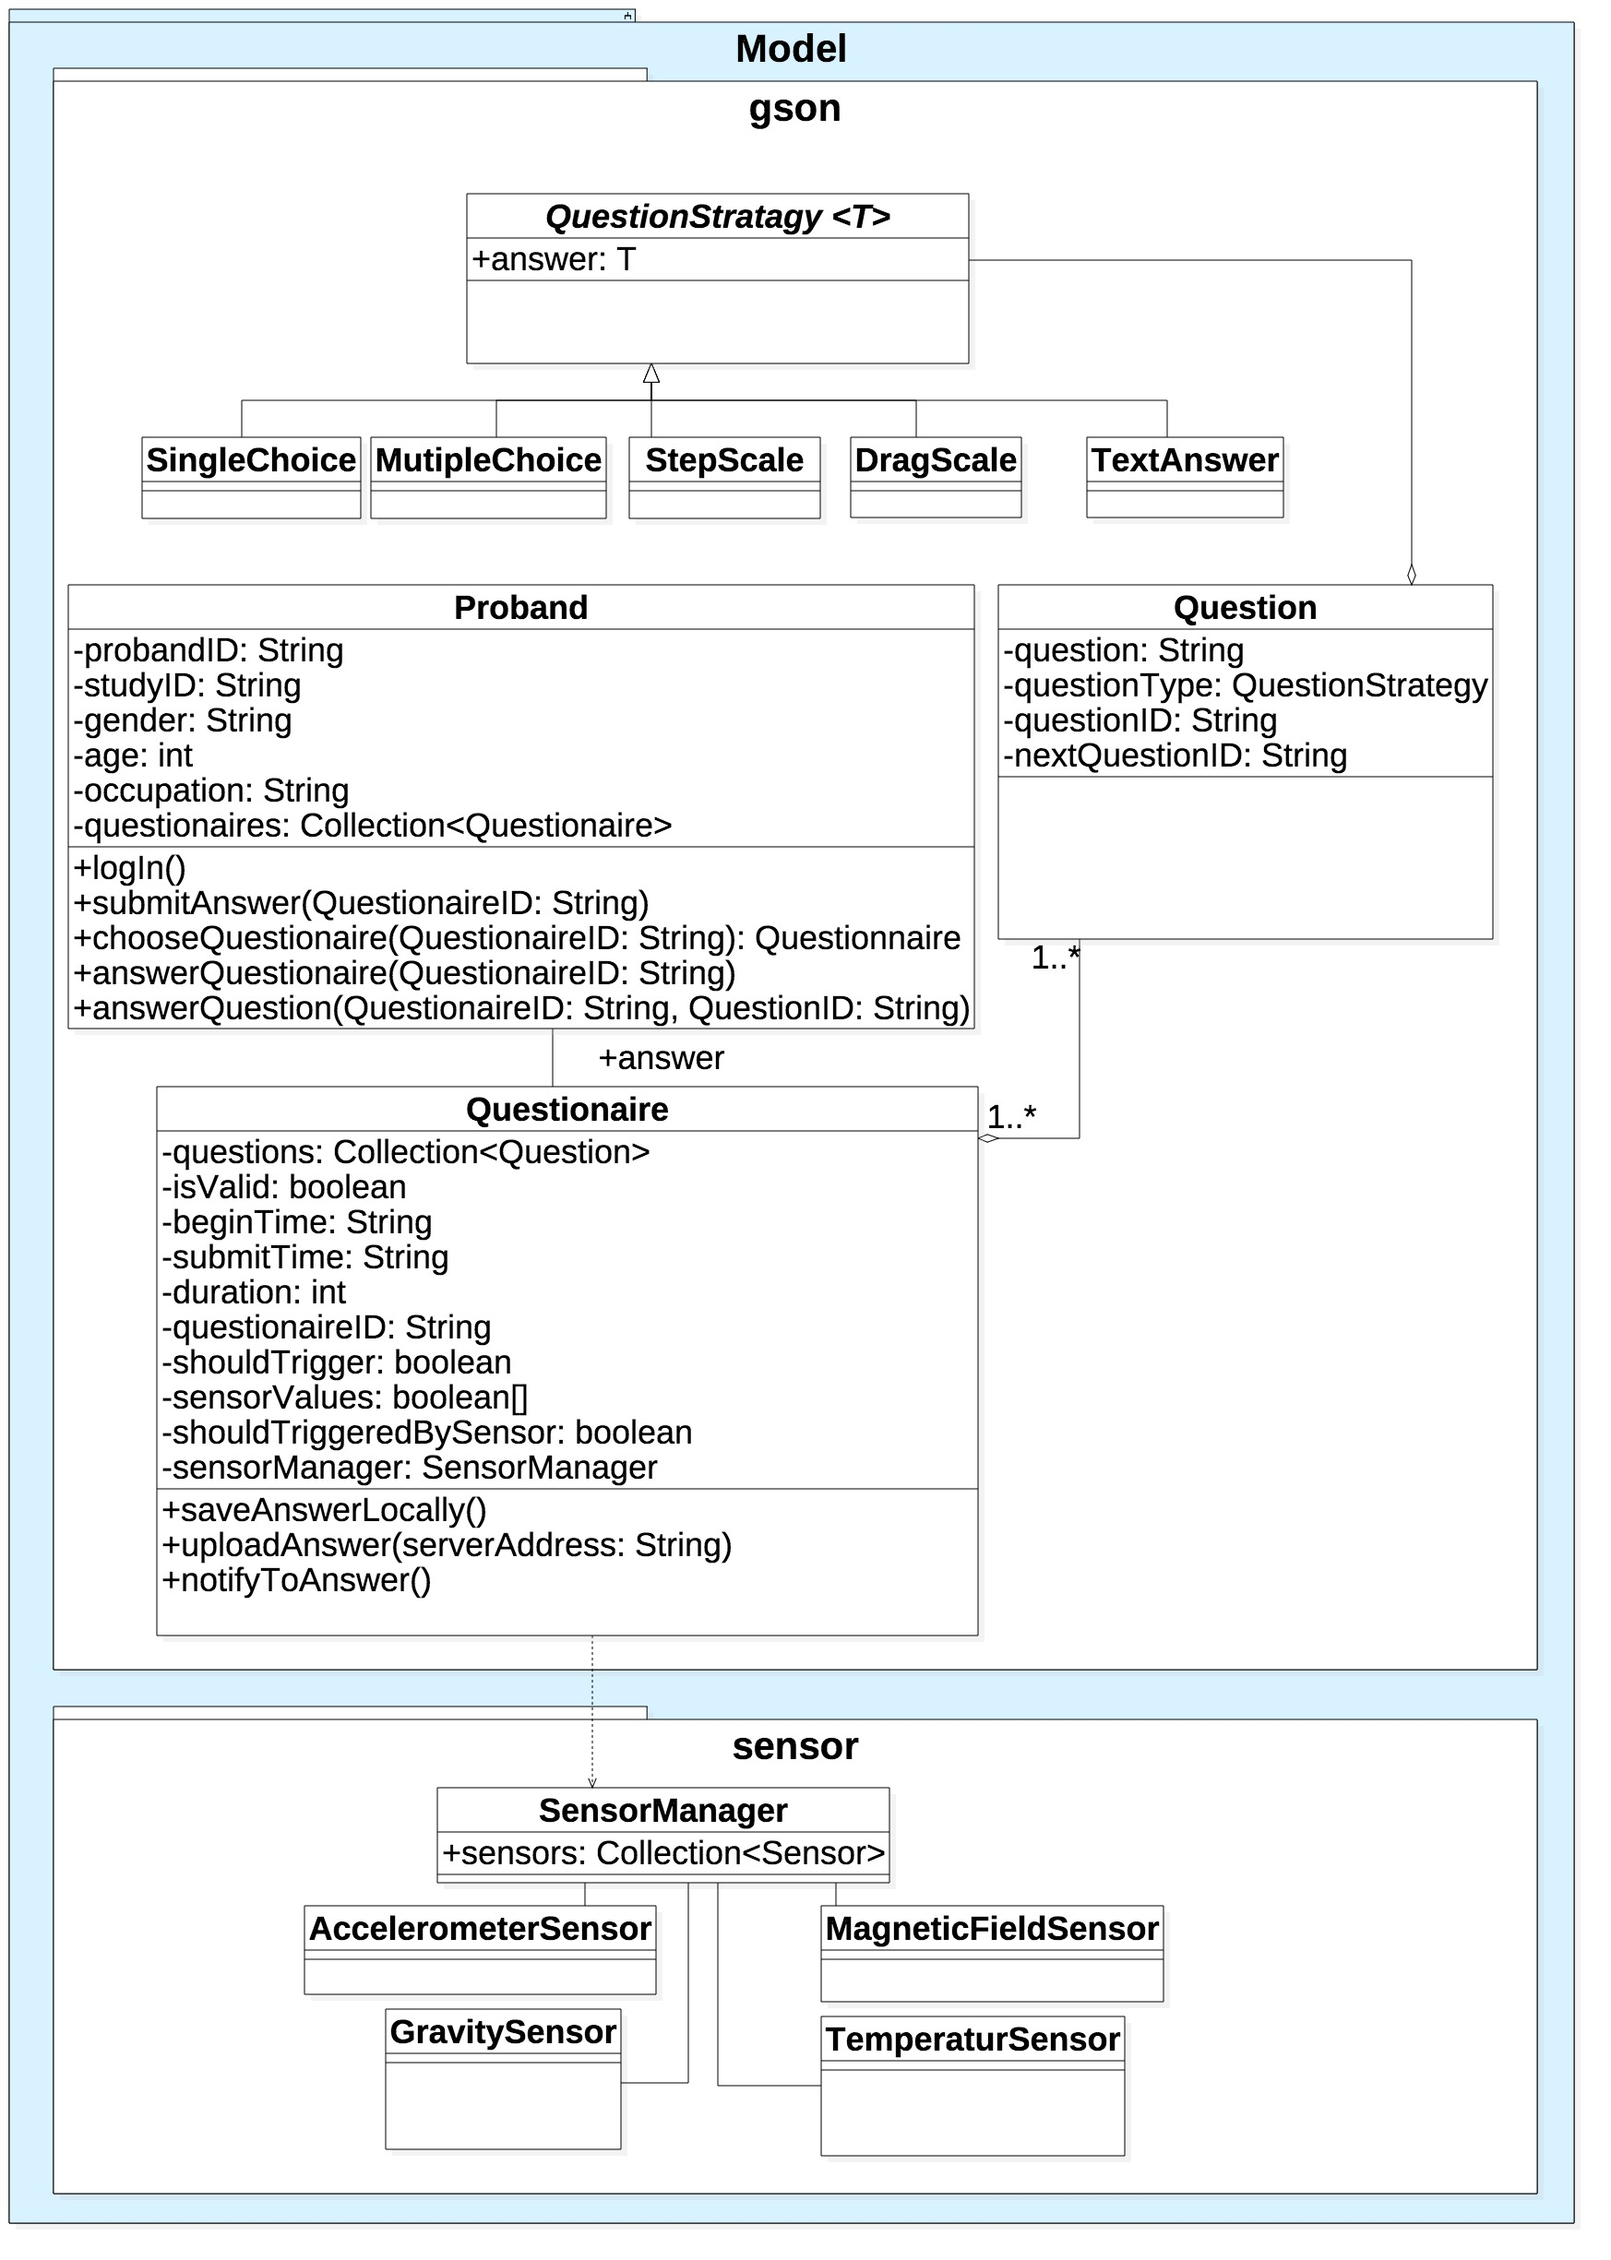
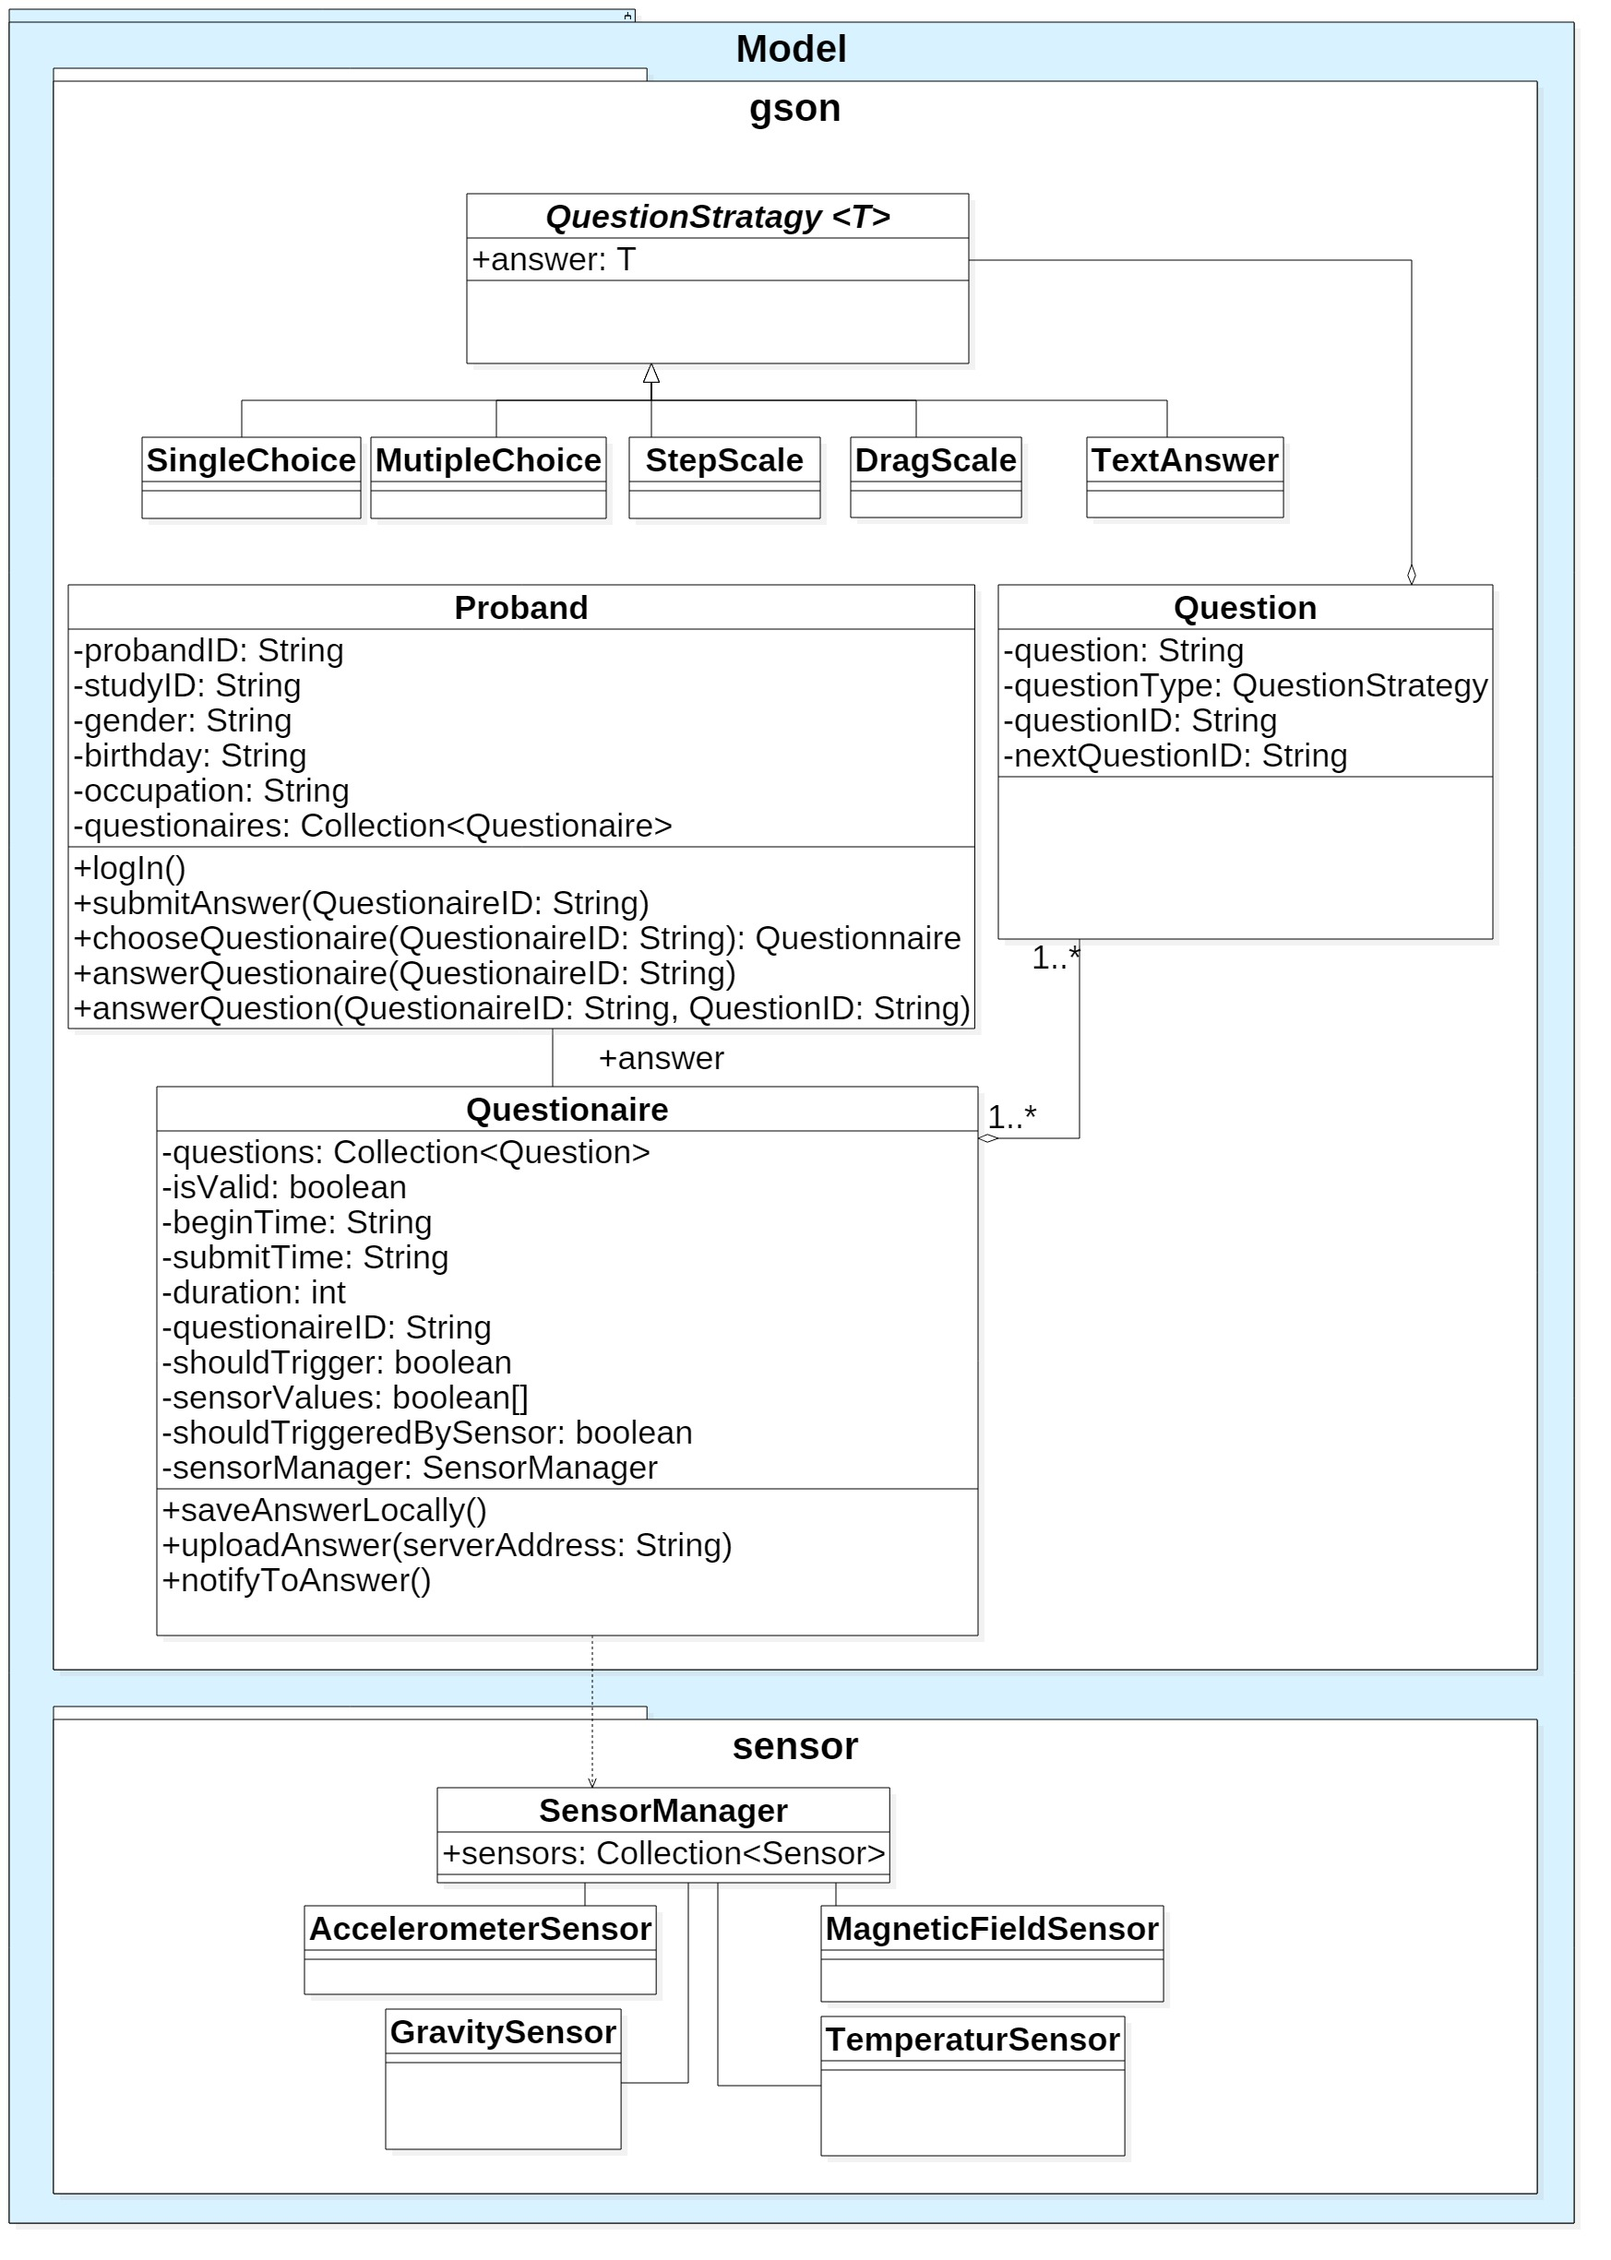
changeagetobirthday

diff --git a/Entwurfsheft/entwurf.tex b/Entwurfsheft/entwurf.tex
@@ -51,7 +51,7 @@
     \fi
   \fi
   %override by keyword style if a keyword is detected!
-  \lsthk@DetectKeywords% 
+  \lsthk@DetectKeywords%
 }
 
 % reset the switch at the end of line
@@ -323,8 +323,8 @@
                                     die ID der Studie
                                 \item {\large \code{gender:String}}\\
                                     Geschlecht des Probands
-                                \item {\large \code{age:int}}\\
-                                    Alter des Probands
+                                \item {\large \code{birthday:String}}\\
+                                    Geburtstag des Probands
                                 \item {\large \code{occupation:String}}\\
                                     Beruf des Probands
                                 \item {\large \code{questionnaires:Collection<Questionnaire>}}\\
@@ -737,18 +737,18 @@
      "probandID" : 123456789,
      "studyID" : 987654321,
      "gender" : "male",
-     "age" : 25,
+     "birthday": 2017,
      "occupation" : "student"
     }
 \end{lstlisting}
 
 
-            \subsection{Übertragung der Antwort von Android-App nach dem Server} 
+            \subsection{Übertragung der Antwort von Android-App nach dem Server}
 
                 Eine JSON-Datei als Beispiel:
 
  \begin{lstlisting}[style=json]
-    
+
     {
      "questionnaireID" : 9527,
      "duration" : {
@@ -774,11 +774,11 @@
      "isTriggedBySensor" : true,
      "sensors" : [
         {
-         "sensorName" : "AccelerometerSensor", 
+         "sensorName" : "AccelerometerSensor",
          "value" : 2
         },
         {
-         "sensorName" : "TemperatureSensor", 
+         "sensorName" : "TemperatureSensor",
          "value" : 20
         }
      ],
@@ -800,7 +800,7 @@
         }
      ]
     }
-\end{lstlisting}              
+\end{lstlisting}
 
 
 
